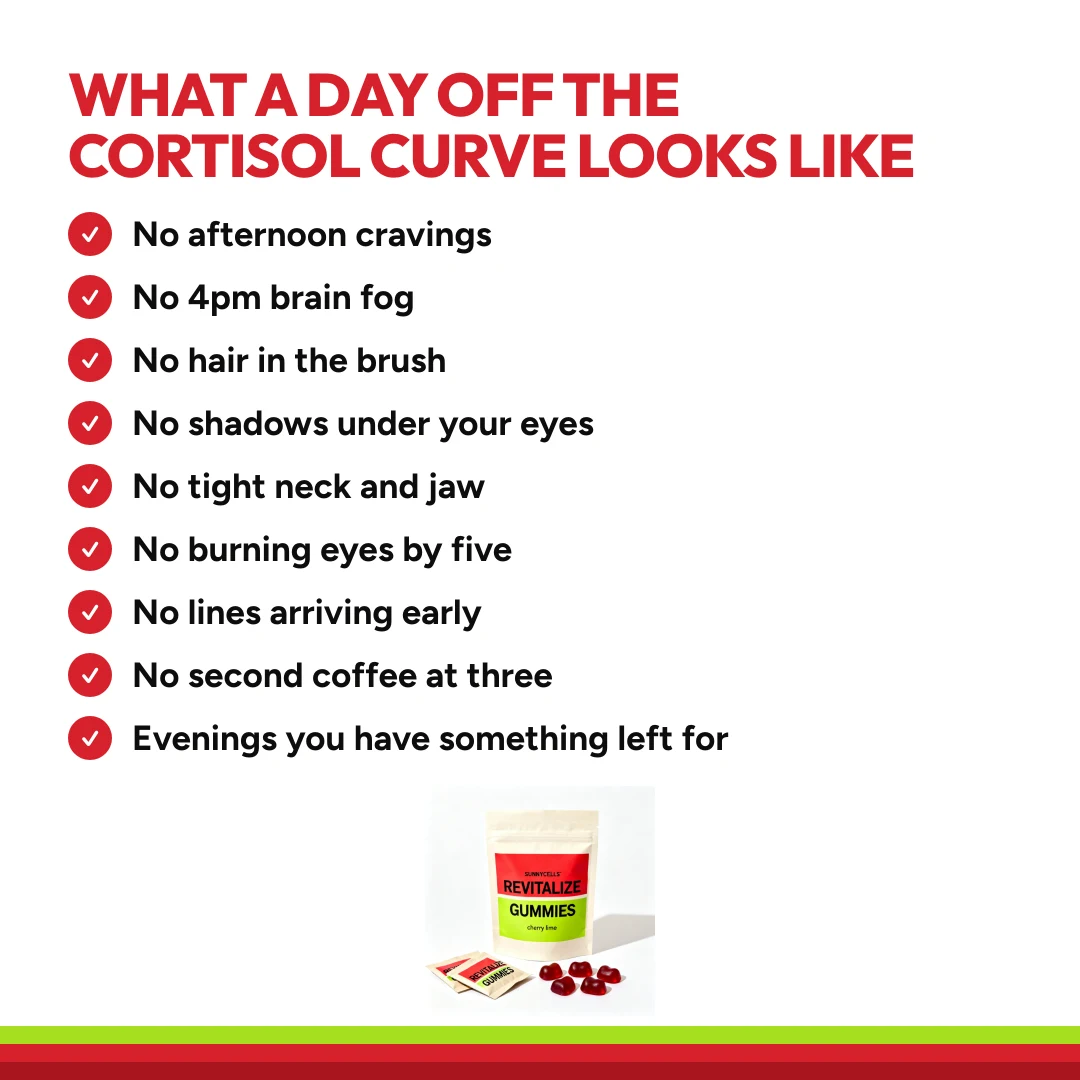
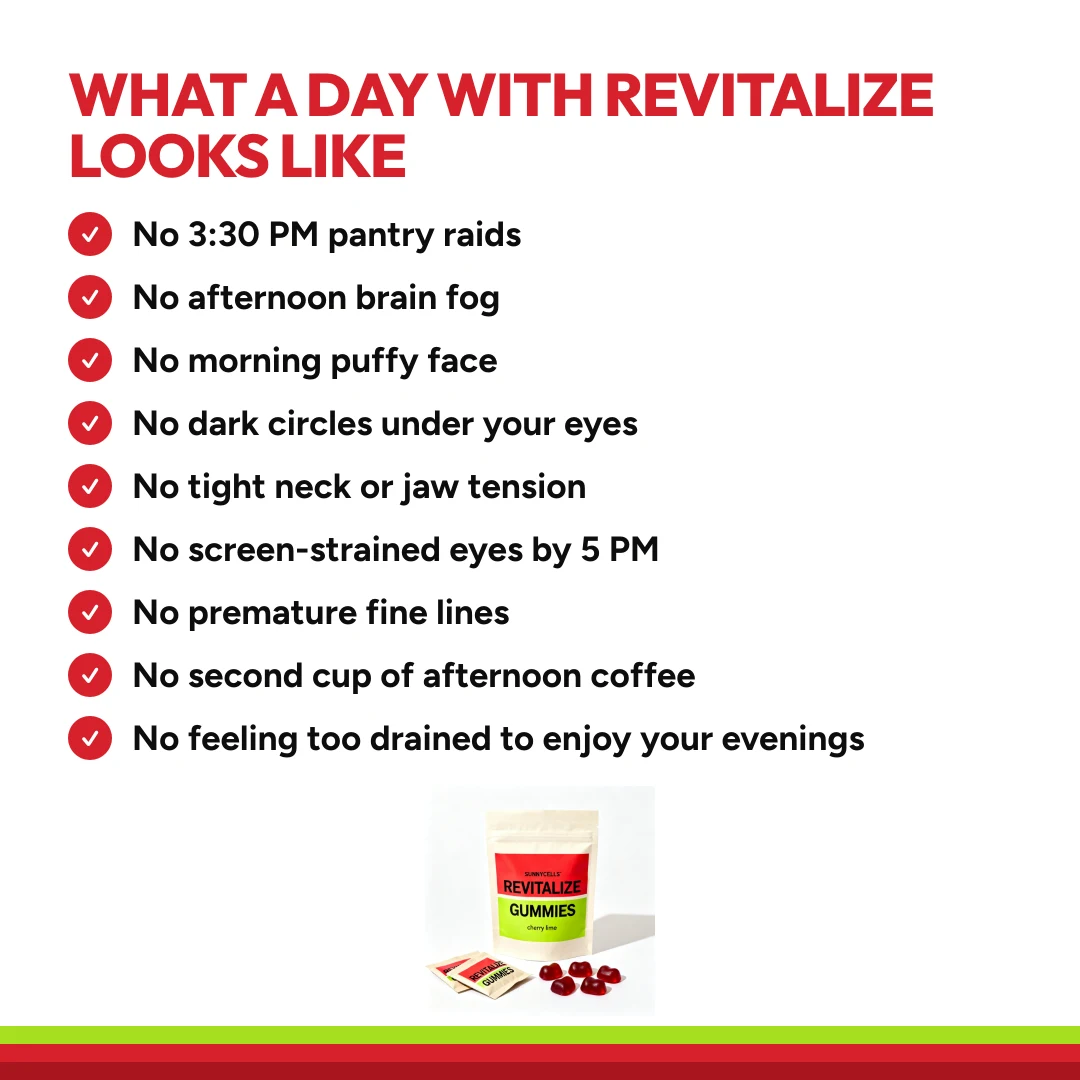
Rewrite carousel slide two
"What a day with Revitalize looks like", with the nine lines as supplied.
Re-rendered, and the gallery alt updated so it describes the list that is
actually on the slide.

diff --git a/lib/products/revitalize.ts b/lib/products/revitalize.ts
@@ -109,7 +109,7 @@ export const RATING = { score: 4.8, count: 2417 } as const;
    objections, why trust us, no risk. Built by scripts/build-carousel.mjs. */
 export const GALLERY = [
   { src: "/product/revitalize/carousel/01-product.webp", alt: "A pouch of Revitalize Gummies with two sachets and five cherry lime gummies on white" },
-  { src: "/product/revitalize/carousel/02-outcome.webp", alt: "What a day off the cortisol curve looks like: no afternoon cravings, no 4pm brain fog, no hair in the brush, no shadows under your eyes, no tight neck and jaw, no burning eyes by five, no lines arriving early, no second coffee at three, evenings you have something left for" },
+  { src: "/product/revitalize/carousel/02-outcome.webp", alt: "What a day with Revitalize looks like: no 3:30 PM pantry raids, no afternoon brain fog, no morning puffy face, no dark circles under your eyes, no tight neck or jaw tension, no screen-strained eyes by 5 PM, no premature fine lines, no second cup of afternoon coffee, no feeling too drained to enjoy your evenings" },
   { src: "/product/revitalize/carousel/03-inside.webp", alt: "The supplement facts panel with each ingredient and its job: vitamin C to build collagen, 10 g gelatin for protein, magnesium glycinate to calm tension, B5 for the stress response, D3 for the indoor day, B1 and B3 for energy and skin, glucomannan to slow the stomach, lutein and zeaxanthin for the screen, allulose for sweetness with no added sugar" },
   { src: "/product/revitalize/carousel/04-timeline.webp", alt: "What happens when you take Revitalize: week one the 3pm hole shallows, month three skin has turned over once, month six and beyond hair grown on the new intake" },
   { src: "/product/revitalize/carousel/05-compare.webp", alt: "Revitalize compared with coffee and a multivitamin across energy without a crash, 10 g of protein, feeding what cortisol spends, staying full to dinner, being something you look forward to, and every dose printed on the front" },

diff --git a/lib/products/revitalize-carousel.ts b/lib/products/revitalize-carousel.ts
@@ -33,17 +33,17 @@ export const SLIDES = {
   /* 2. Outcome. Nine lines, the shape of a day that is not running on cortisol. */
   outcome: {
     file: "02-outcome",
-    title: "What a day off the cortisol curve looks like",
+    title: "What a day with Revitalize looks like",
     items: [
-      { icon: "check", text: "No afternoon cravings" },
-      { icon: "check", text: "No 4pm brain fog" },
-      { icon: "check", text: "No hair in the brush" },
-      { icon: "check", text: "No shadows under your eyes" },
-      { icon: "check", text: "No tight neck and jaw" },
-      { icon: "check", text: "No burning eyes by five" },
-      { icon: "check", text: "No lines arriving early" },
-      { icon: "check", text: "No second coffee at three" },
-      { icon: "check", text: "Evenings you have something left for" },
+      { icon: "check", text: "No 3:30 PM pantry raids" },
+      { icon: "check", text: "No afternoon brain fog" },
+      { icon: "check", text: "No morning puffy face" },
+      { icon: "check", text: "No dark circles under your eyes" },
+      { icon: "check", text: "No tight neck or jaw tension" },
+      { icon: "check", text: "No screen-strained eyes by 5 PM" },
+      { icon: "check", text: "No premature fine lines" },
+      { icon: "check", text: "No second cup of afternoon coffee" },
+      { icon: "check", text: "No feeling too drained to enjoy your evenings" },
     ],
   },
 
